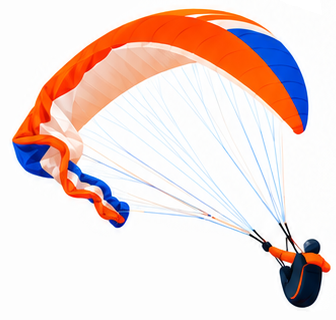
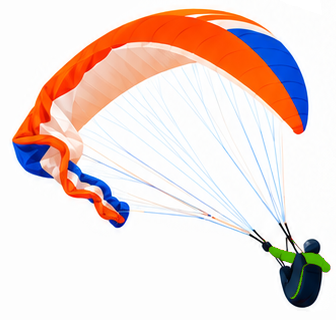
Verhaenger-Grafik: Jacke in PAOLO-Gruen, Darstellung auf Was ist PAOLO? verkleinert

Changed region(s): [[0.8036, 0.75, 0.9821, 0.875], [0.8631, 0.875, 0.8929, 0.9375]]

diff --git a/src/styles/global.css b/src/styles/global.css
@@ -354,8 +354,8 @@ dl.roles dd { margin: 0; max-width: var(--measure); }
 /* Produktseite: Gleitschirm-Illustration (Verhänger) im Kopfbereich */
 .hero--paolo .hero-bild { margin: 0; justify-self: center; }
 .hero--paolo .hero-bild img { mix-blend-mode: multiply; }
-.hero--paolo .hero-bild img { display: block; width: auto; height: auto; max-width: 100%; max-height: 11rem; }
+.hero--paolo .hero-bild img { display: block; width: auto; height: auto; max-width: 100%; max-height: 7.5rem; }
 @media (min-width: 56em) {
-  .hero--paolo .wrap { grid-template-columns: minmax(0, 1fr) 21rem; gap: 2.5rem; align-items: start; }
-  .hero--paolo .hero-bild img { max-height: none; width: 100%; max-width: 21rem; }
+  .hero--paolo .wrap { grid-template-columns: minmax(0, 1fr) 14rem; gap: 2.5rem; align-items: start; }
+  .hero--paolo .hero-bild img { max-height: none; width: 100%; max-width: 14rem; }
 }

diff --git a/BRAND.md b/BRAND.md
@@ -97,6 +97,10 @@ Marke werden vor einer Produktivfreigabe abschließend geklärt.
 
 - **Datei:** `public/bilder/verhaenger.png` (Rasterbild, 336 × 320 Pixel, transparenter Hintergrund;
   verwendet im Kopfbereich der Seite „Was ist PAOLO?“).
+- **Farbanpassung (23.11.2026):** Jacke und Zierstreifen des Piloten (vorher Orange) sind auf
+  Anweisung des Betreibers in PAOLO-Grün (#6CB324) umgefärbt; Schattierung und Transparenz
+  blieben erhalten. Untersegel (weiß), Obersegel, Leinen und alle übrigen Bildteile sind
+  unverändert.
 - **Zweck:** Gleitschirmbezug auf der Produktseite. Nicht auf der Startseite, nicht bei „Die Idee“.
 - **Herkunft:** Vom Betreiber bereitgestellt; die Art der Erstellung ist hier nicht dokumentiert
   und vor der Veröffentlichung zu ergänzen.
